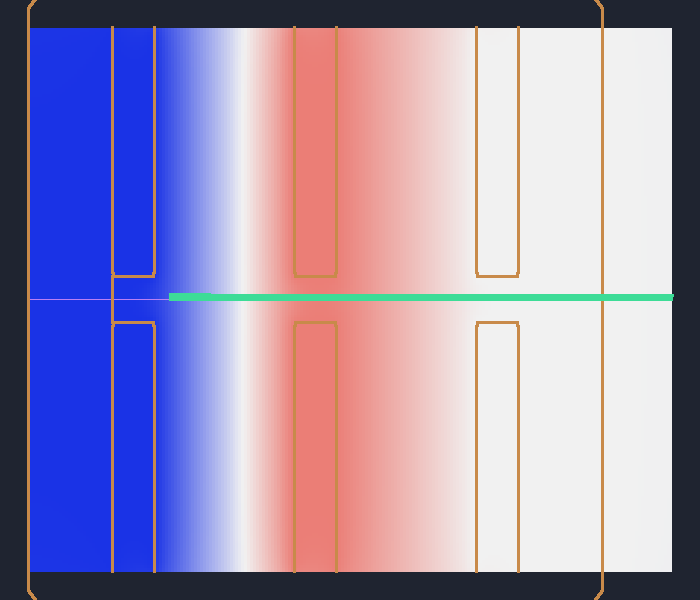
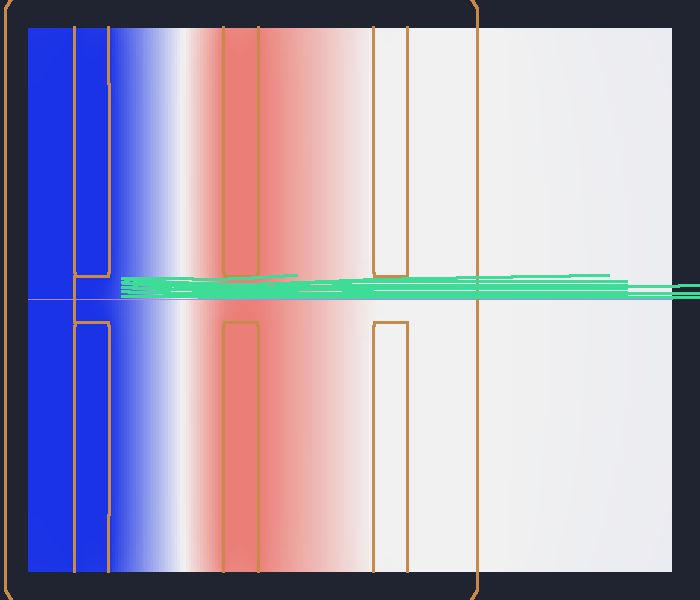
examples: clearer dohi-mirror figure (visible reflection fan)
The mirror trajectory read as a single straight axial line because the paraxial
rays reflected on-axis and overlapped. Launch a spread of rays at distinct radii
straight into the retarding field so each decelerates, reverses near z≈0, and
returns — the figure now shows the reflection/focusing as a fan of in-and-out
paths against the mirror's blue retarding field.

diff --git a/examples/dohi-mirror/main.go b/examples/dohi-mirror/main.go
@@ -65,26 +65,26 @@ func main() {
 	fmt.Printf("dohi mirror: %d elements, %d reflected rays → images/dohi-mirror.png\n", len(lines), len(rays))
 }
 
-// traceMirror launches electrons at z=15 that reflect off the mirror near z=0 and return; the
-// trajectories are clipped to the field region for a legible figure.
+// traceMirror launches electrons down the axis from z=2.4 at a spread of radii; each
+// decelerates in the mirror's retarding field, reverses near z≈0, and returns — so the figure
+// shows the reflection as a fan of in-and-out paths (mirrored about the axis). Plotting r (not
+// |r|) keeps the incoming and reflected legs of each ray distinct.
 func traceMirror(fa field.FieldRadialAxial) [][2][]float64 {
 	fieldFn := func(pos, _ geom3d.Vec3) (elec, mag geom3d.Vec3) {
 		e := fa.FieldAtPoint(geom2d.Vertex{pos[0], pos[1], pos[2]})
 		return geom3d.Vec3{e[0], e[1], e[2]}, geom3d.Vec3{}
 	}
+	v0 := tracing.VelocityVec(1000, geom3d.Vec3{0, 0, -1}, constants.ElectronMass) // straight in (−z)
 	qOverM := -constants.ElementaryCharge / constants.ElectronMass
-	bounds := tracing.Bounds{{-0.1, 0.1}, {-0.03, 0.03}, {0.05, 19}}
+	bounds := tracing.Bounds{{-0.08, 0.08}, {-0.03, 0.03}, {0.04, 3.0}}
 
 	var rays [][2][]float64
 	for i := 0; i < numRays; i++ {
-		angle := (float64(i)/float64(numRays-1) - 0.5) * 2e-3 // small spread of launch angles
-		v0 := tracing.VelocityVecXZPlane(1000, math.Abs(angle), angle >= 0, constants.ElectronMass)
-		_, states := tracing.TraceParticle(geom3d.Vec3{0, 0, 15}, v0, qOverM, fieldFn, bounds, 1e-8)
-		var zs, rs []float64
+		r0 := 0.01 + 0.05*float64(i)/float64(numRays-1) // distinct launch radii 0.01..0.06
+		_, states := tracing.TraceParticle(geom3d.Vec3{r0, 0, 2.4}, v0, qOverM, fieldFn, bounds, 1e-9)
+		zs := make([]float64, 0, len(states))
+		rs := make([]float64, 0, len(states))
 		for _, s := range states {
-			if s[2] > 2.0 { // show only the near-mirror region where the reflection happens
-				continue
-			}
 			zs = append(zs, s[2])
 			rs = append(rs, s[0])
 		}
@@ -97,7 +97,7 @@ func traceMirror(fa field.FieldRadialAxial) [][2][]float64 {
 
 func render(paths []geometry.Path, bem field.FieldRadialBEM, rays [][2][]float64) {
 	const grid = 220
-	zMin, zMax, rMax := -0.3, 2.0, 0.9
+	zMin, zMax, rMax := -0.2, 2.6, 0.9
 	c := plot.New(700, 600, zMin, zMax, -rMax, rMax)
 
 	pot := make([][]float64, grid)